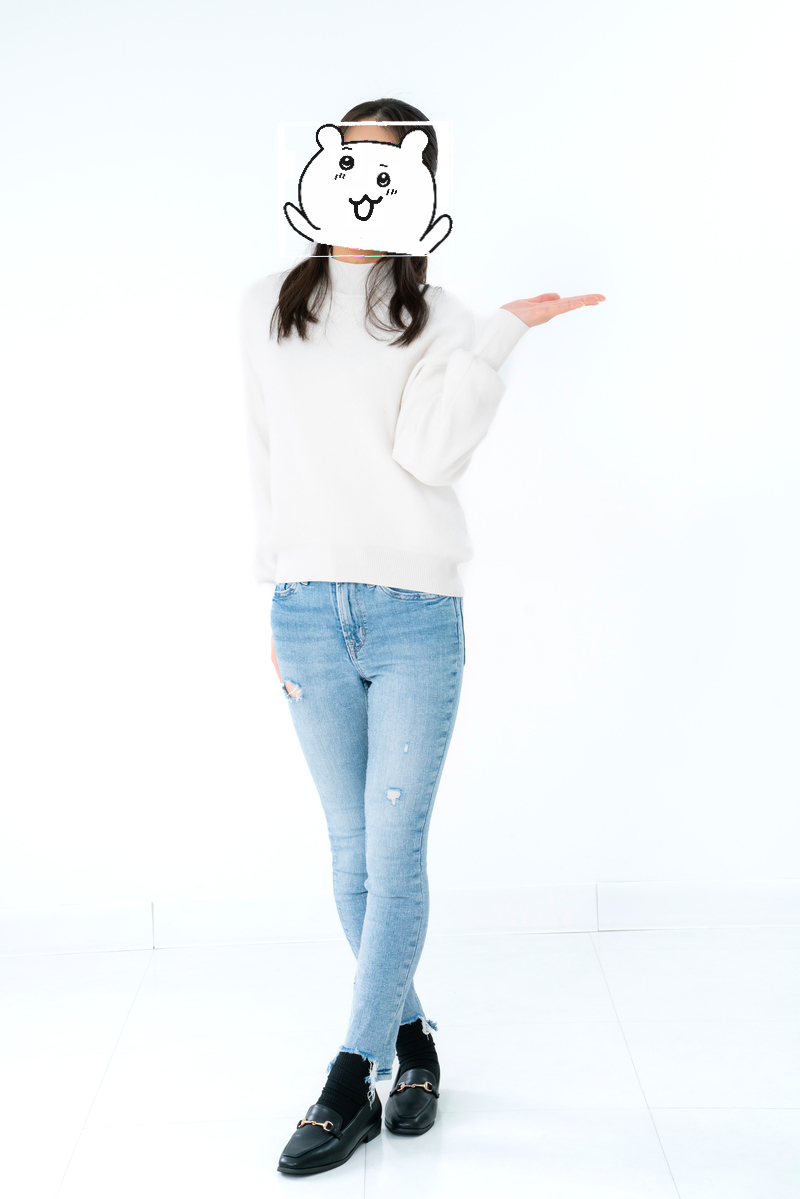
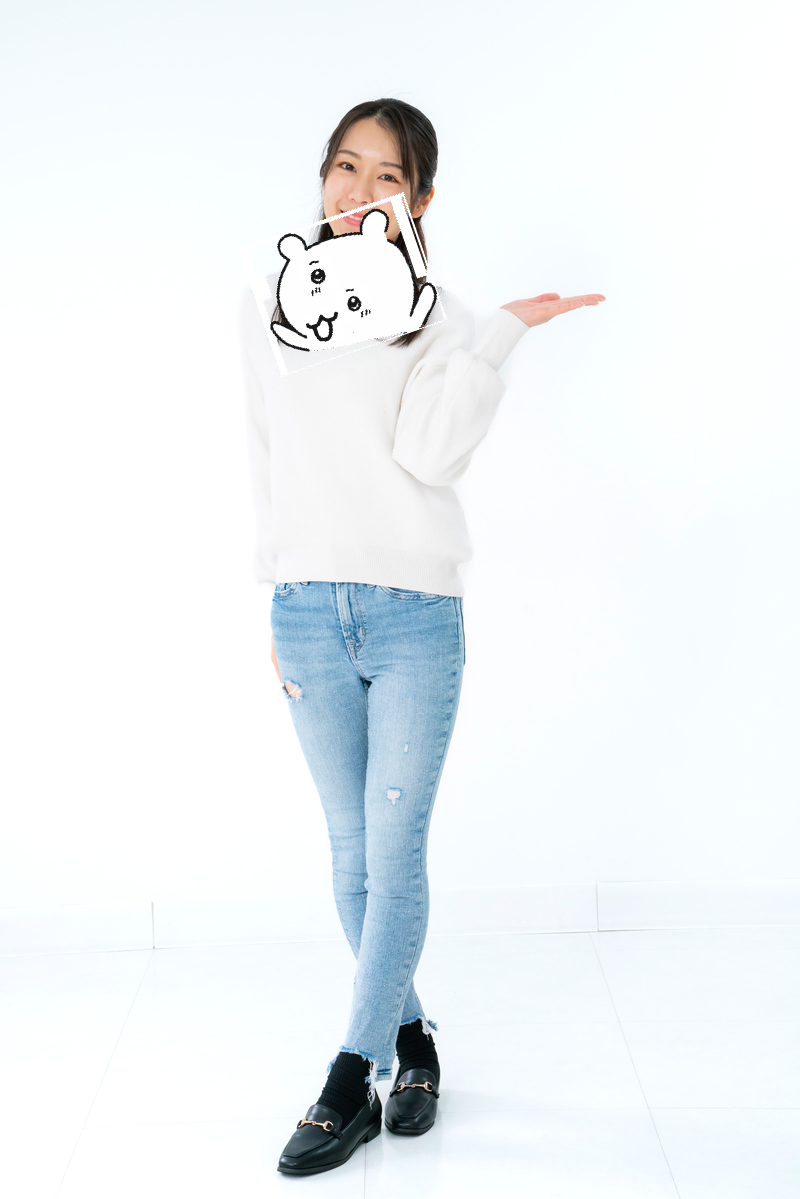
ラジアンではなく度！めっちゃ回転したがやべーw

Changed region(s): [[0.3438, 0.0926, 0.5625, 0.3086]]

diff --git a/compressor.py b/compressor.py
@@ -37,7 +37,7 @@ class compressor:
 
         img_origin = self.face_paste(img_origin, face_targets, radian)
         img_origin = self.lefteye_paste(img_origin, lefteye_targets, radian)
-        img_origin = self.righteye_paste(img_origin, righteye_targets, 0.8)
+        img_origin = self.righteye_paste(img_origin, righteye_targets, radian)
 
         mouth_targets = self.convert_mouth_rect(face_targets)
         img_origin = self.mouth_paste(img_origin, mouth_targets, radian)
@@ -178,6 +178,7 @@ class compressor:
     # putSprite_Affine(back_img, fore_img, (x,y), radian)
     def putSprite_Affine(self, back, front4, pos, angle=0, center=[0,0]):
         # x, y = pos
+        angle = math.degrees(angle)
         print(angle)
         front3 = front4[:, :, :3]
         mask1 =  front4[:, :, 3]
